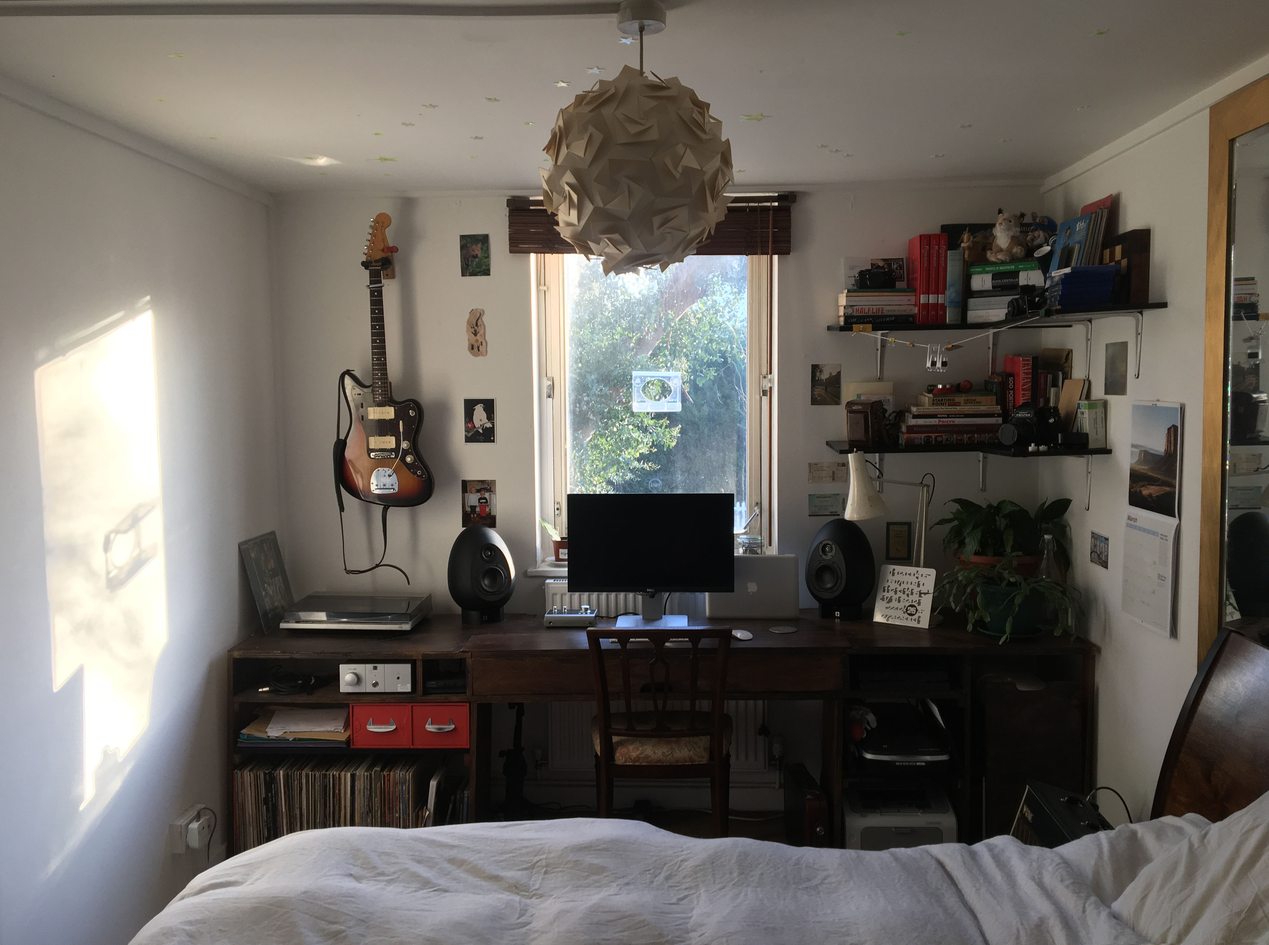
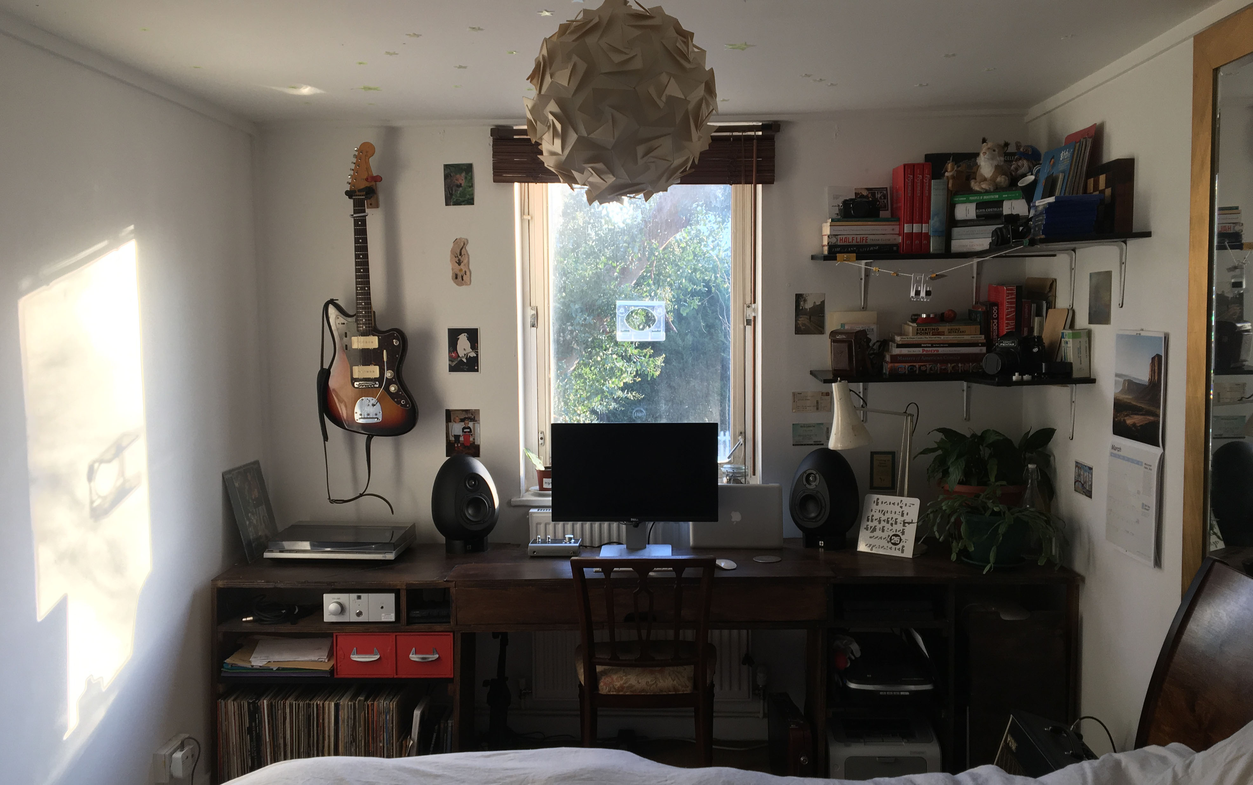
.

diff --git a/style.css b/style.css
@@ -20,13 +20,14 @@ body {
 
 #deskImageDiv {
   width:100%;
-  height:100%;
-	min-width:178vh;
+  min-height:100%;
+	min-width:200vh;
   position: relative;
   display: block;
   margin: 0px auto;
   background: #fff;
   text-align:center;
+  line-height:0px;
 }
 
 #deskImage {
@@ -38,20 +39,6 @@ body {
   transition: opacity 500ms ease-in;
 }
 
-#screen {
-  position:absolute;
-  z-index:2;
-  width: 20.5%;
-  height: 20%;
-  left: 41.3%;
-  top: 7.4%;
-  opacity:0.9;
-}
-#screenImage {
-  width:100%;
-  height:100%;
-}
-
 .popUpTrigger {
   position: absolute;
   border-radius:30px;
@@ -60,7 +47,7 @@ body {
 }
 .popUpTrigger:hover{
   background-color: rgba(255,255,255,0.1);
-  box-shadow: 0 0 20px 20px rgba(255,255,255,0.1);
+  box-shadow: 0 0 15px 15px rgba(255,255,255,0.1);
 }
 
 .modal {
@@ -72,7 +59,7 @@ body {
   left:0;
   z-index: 13;
   opacity: 0;
-  background:url(https://raw.githubusercontent.com/tommyhyatt/tommyhyatt.github.io/master/images/deskImageBlur.jpg);
+  background:url(https://raw.githubusercontent.com/tommyhyatt/tommyhyatt.github.io/master/images/newDeskImageBlur.jpg);
   background-size:cover;
   -webkit-transition: opacity 500ms ease-in;
   -moz-transition: opacity 500ms ease-in;
@@ -89,7 +76,7 @@ body {
   left:0;
   z-index: 20;
   opacity: 1;
-  background:url(images/deskImageBlur.jpg);
+  background:url(https://raw.githubusercontent.com/tommyhyatt/tommyhyatt.github.io/master/images/newDeskImageBlur.jpg);
   background-size:cover;
   -webkit-transition: opacity 500ms ease-in;
   -moz-transition: opacity 500ms ease-in;
@@ -122,7 +109,7 @@ body {
   transform: translateX(-50%) translateY(-50%);
   z-index:15;
   background: rgba(255,255,255,0.7);
-  border-radius:30px;
+  border-radius:15px;
 }
 
 
@@ -149,19 +136,19 @@ body {
 
 .close, .close0 {
   font-family:sans-serif;
-  font-size:25px;
-  background: #666;
+  font-size:22px;
+  background: #000;
   color: #fff;
   line-height: 52px;
   position: absolute;
-  right: -12px;
+  right: -22px;
   text-align: center;
-  top: -10px;
+  top: -22px;
   width: 50px;
   height:50px;
   text-decoration: none;
-  font-weight: bold;
-  border-radius:100%;
+  font-weight: regular;
+  border-radius:550%;
 }
 
 .close:hover {
@@ -169,137 +156,9 @@ body {
 }
 
 #turntable {
-  width: 19%;
-  height: 8%;
-  left: 8%;
-  top: 33%;
-}
-
-#speakerLeft {
-  width: 9.5%;
-  height: 23%;
-  left: 28%;
-  top: 17%;
-}
-
-#audient {
-  width: 7.4%;
-  height: 5%;
-  left: 35.5%;
-  top: 36%;
-  z-index:4;
-}
-
-#monitor {
-  width: 21%;
-  height: 23%;
-  left: 41%;
-  top: 6%;
-}
-
-#laptop {
-  width: 13%;
-  height: 6%;
-  left: 45%;
-  top: 37%;
-}
-
-#coaster {
-  width: 3.5%;
-  height: 1%;
-  left: 61%;
-  top: 40.7%;
-}
-
-#speakerRight {
-  width: 9.5%;
-  height: 23%;
-  left: 65%;
-  top: 17%;
-}
-
-#lamp {
-  width: 11%;
-  height: 32%;
-  left: 75%;
-  top: 10%;
-}
-
-#psCont {
-  width: 7%;
-  height: 5%;
-  left: 79.8%;
-  top: 38%;
-  z-index:4;
-}
-
-#amplifier {
-  width: 17%;
-  height: 8%;
-  left: 9%;
-  top: 47%;
-}
-
-#piano {
-  width: 47%;
-  height: 8%;
-  left: 27%;
-  top: 47%;
-}
-
-#playstation {
   width: 12%;
-  height: 8%;
-  left: 74.5%;
-  top: 47%;
-}
-
-#austin {
-  width: 6%;
-  height: 8%;
-  left: 14.5%;
-  top: 58%;
-}
-
-#jacksonBrowne {
-  width: 6%;
-  height: 6%;
-  left: 21.3%;
-  top: 58%;
-}
-
-#oxford {
-  width: 4.5%;
-  height: 11%;
-  left: 29.8%;
-  top: 58%;
-}
-
-#printer {
-  width: 14%;
-  height: 17%;
-  left: 69%;
-  top: 59%;
-}
-
-#music {
-  width: 29.4%;
-  height: 23%;
-  left: 6%;
-  top: 70%;
-}
-
-#footpedal {
-  width: 2.5%;
-  height: 8.7%;
-  left: 50%;
-  top: 81%;
-}
-
-#scanner {
-  width: 20%;
-  height: 12%;
-  left: 66%;
-  top: 80%;
+  height: 5%;
+  left: 22%;
+  top: 62%;
 }
 

diff --git a/index.html b/index.html
@@ -8,91 +8,14 @@
   <meta name="viewport" content="width=device-width, initial-scale=1">
   <link href="https://fonts.googleapis.com/css?family=Arvo:400,400i,700" rel="stylesheet">
 
-
-
-
 </head>
 
 <body>
   
   </div>
   <div id="deskImageDiv">
-    <img id="deskImage" src="https://raw.githubusercontent.com/tommyhyatt/tommyhyatt.github.io/master/images/deskImage.jpg">
-    <div id="screen"></div>
-    <a href="#modal1">
+    <img id="deskImage" src="https://raw.githubusercontent.com/tommyhyatt/tommyhyatt.github.io/master/images/newDeskImage.jpg"><div id="screen"></div><a href="#modal1">
       <div class="popUpTrigger" id="turntable">
-      </div>
-    </a>
-    <a href="#modal1">
-      <div class="popUpTrigger" id="speakerLeft">
-      </div>
-    </a>
-    <a href="#modal1">
-      <div class="popUpTrigger" id="audient">
-      </div>
-    </a>
-    <a href="#modal1">
-      <div class="popUpTrigger" id="monitor">
-      </div>
-    </a>
-    <a href="#modal1">
-      <div class="popUpTrigger" id="laptop">
-      </div>
-    </a>
-    <a href="#modal1">
-      <div class="popUpTrigger" id="coaster">
-      </div>
-    </a>
-    <a href="#modal1">
-      <div class="popUpTrigger" id="speakerRight">
-      </div>
-    </a>
-    <a href="#modal1">
-      <div class="popUpTrigger" id="lamp">
-      </div>
-    </a>
-    <a href="#modal1">
-      <div class="popUpTrigger" id="psCont">
-      </div>
-    </a>
-    <a href="#modal1">
-      <div class="popUpTrigger" id="amplifier">
-      </div>
-    </a>
-    <a href="#modal1">
-      <div class="popUpTrigger" id="piano">
-      </div>
-    </a>
-    <a href="#modal1">
-      <div class="popUpTrigger" id="playstation">
-      </div>
-    </a>
-    <a href="#modal1">
-      <div class="popUpTrigger" id="austin">
-      </div>
-    </a>
-    <a href="#modal1">
-      <div class="popUpTrigger" id="jacksonBrowne">
-      </div>
-    </a>
-    <a href="#modal1">
-      <div class="popUpTrigger" id="oxford">
-      </div>
-    </a>
-    <a href="#modal1">
-      <div class="popUpTrigger" id="printer">
-      </div>
-    </a>
-    <a href="#modal1">
-      <div class="popUpTrigger" id="music">
-      </div>
-    </a>
-    <a href="#modal1">
-      <div class="popUpTrigger" id="footpedal">
-      </div>
-    </a>
-    <a href="#modal1">
-      <div class="popUpTrigger" id="scanner">
       </div>
     </a>
 
